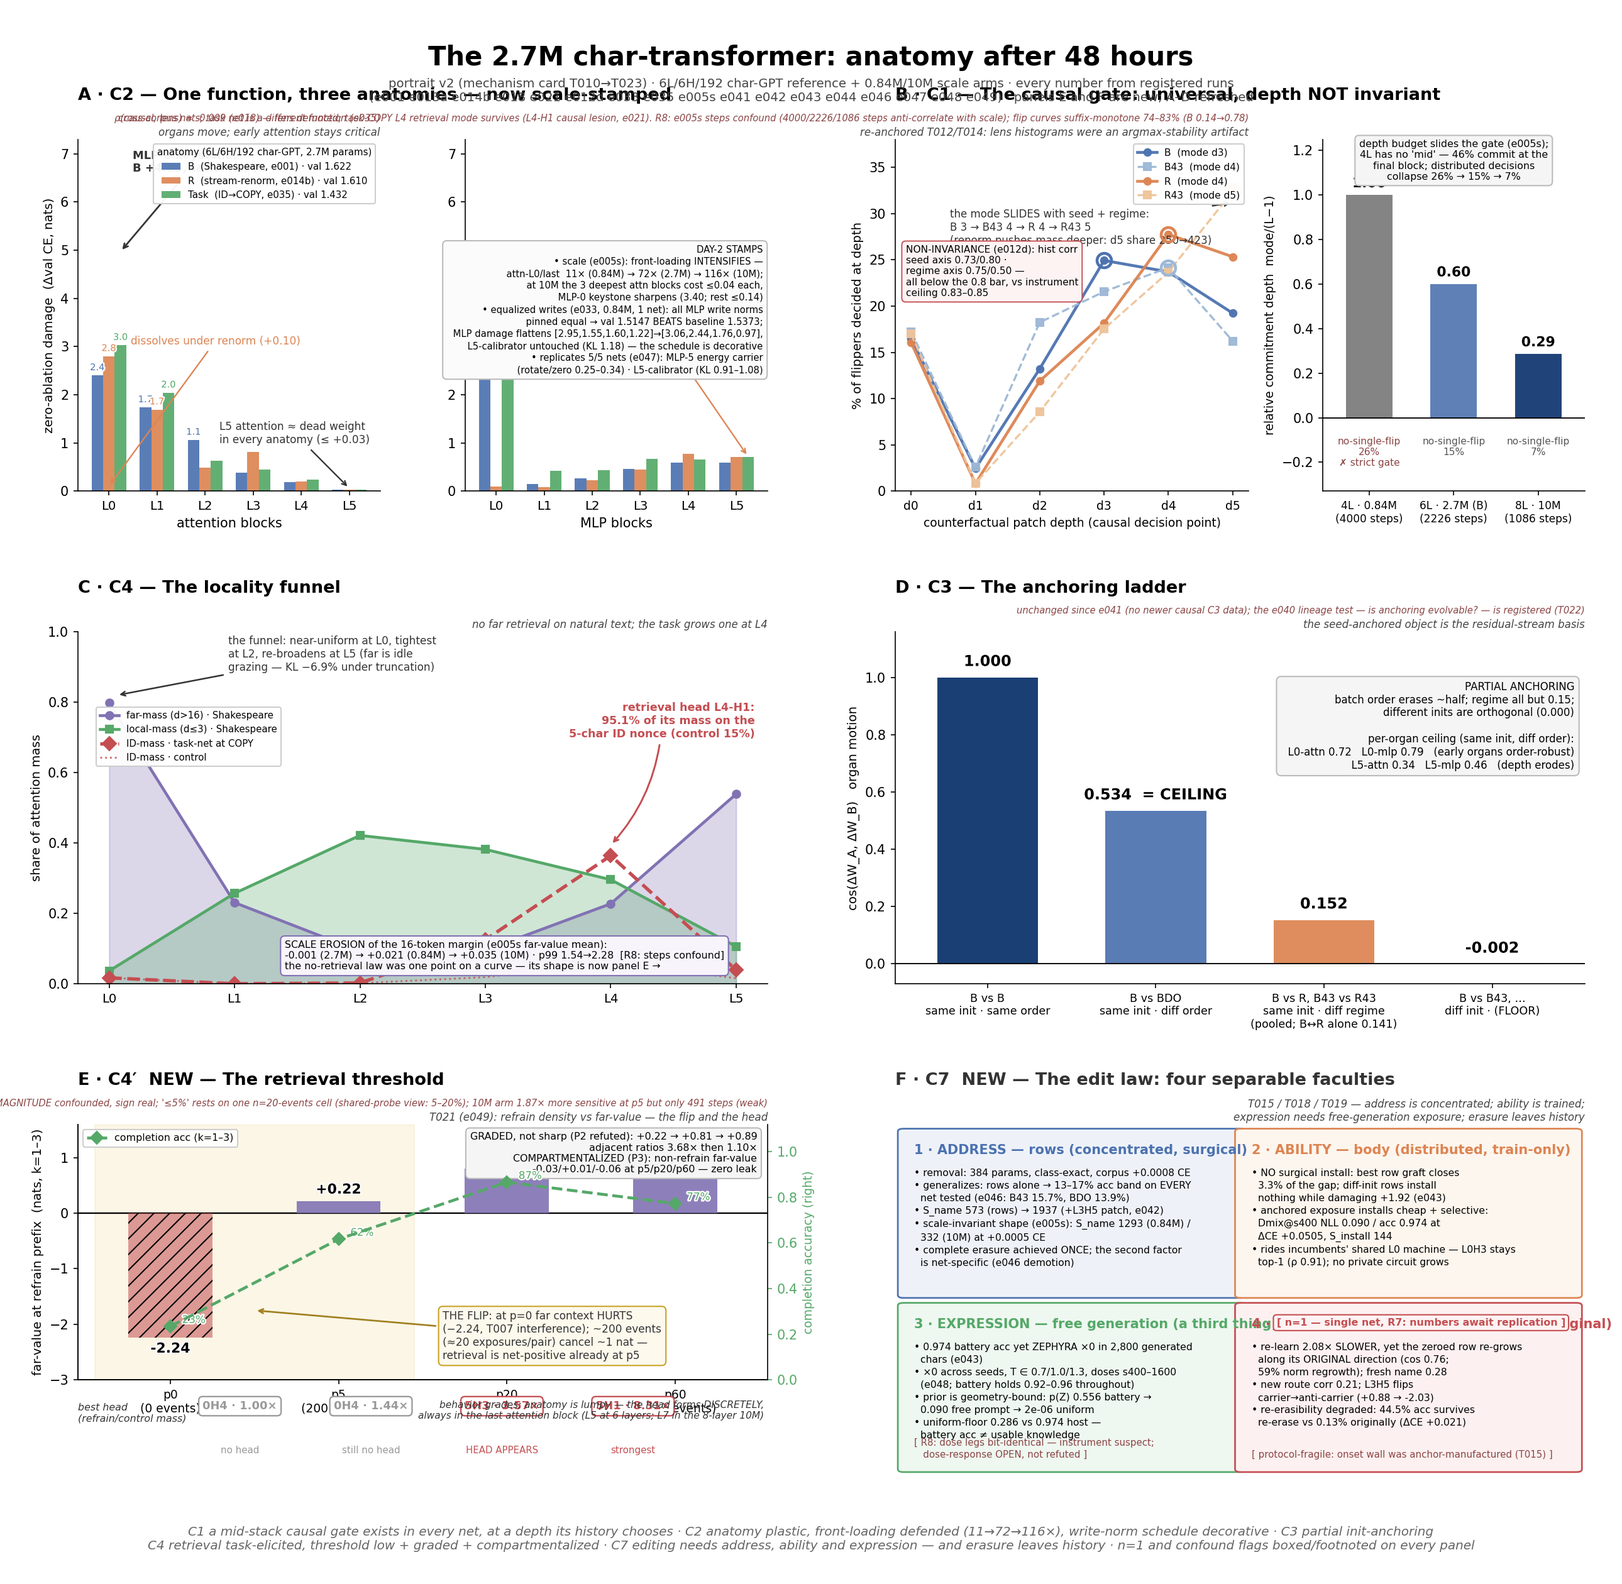
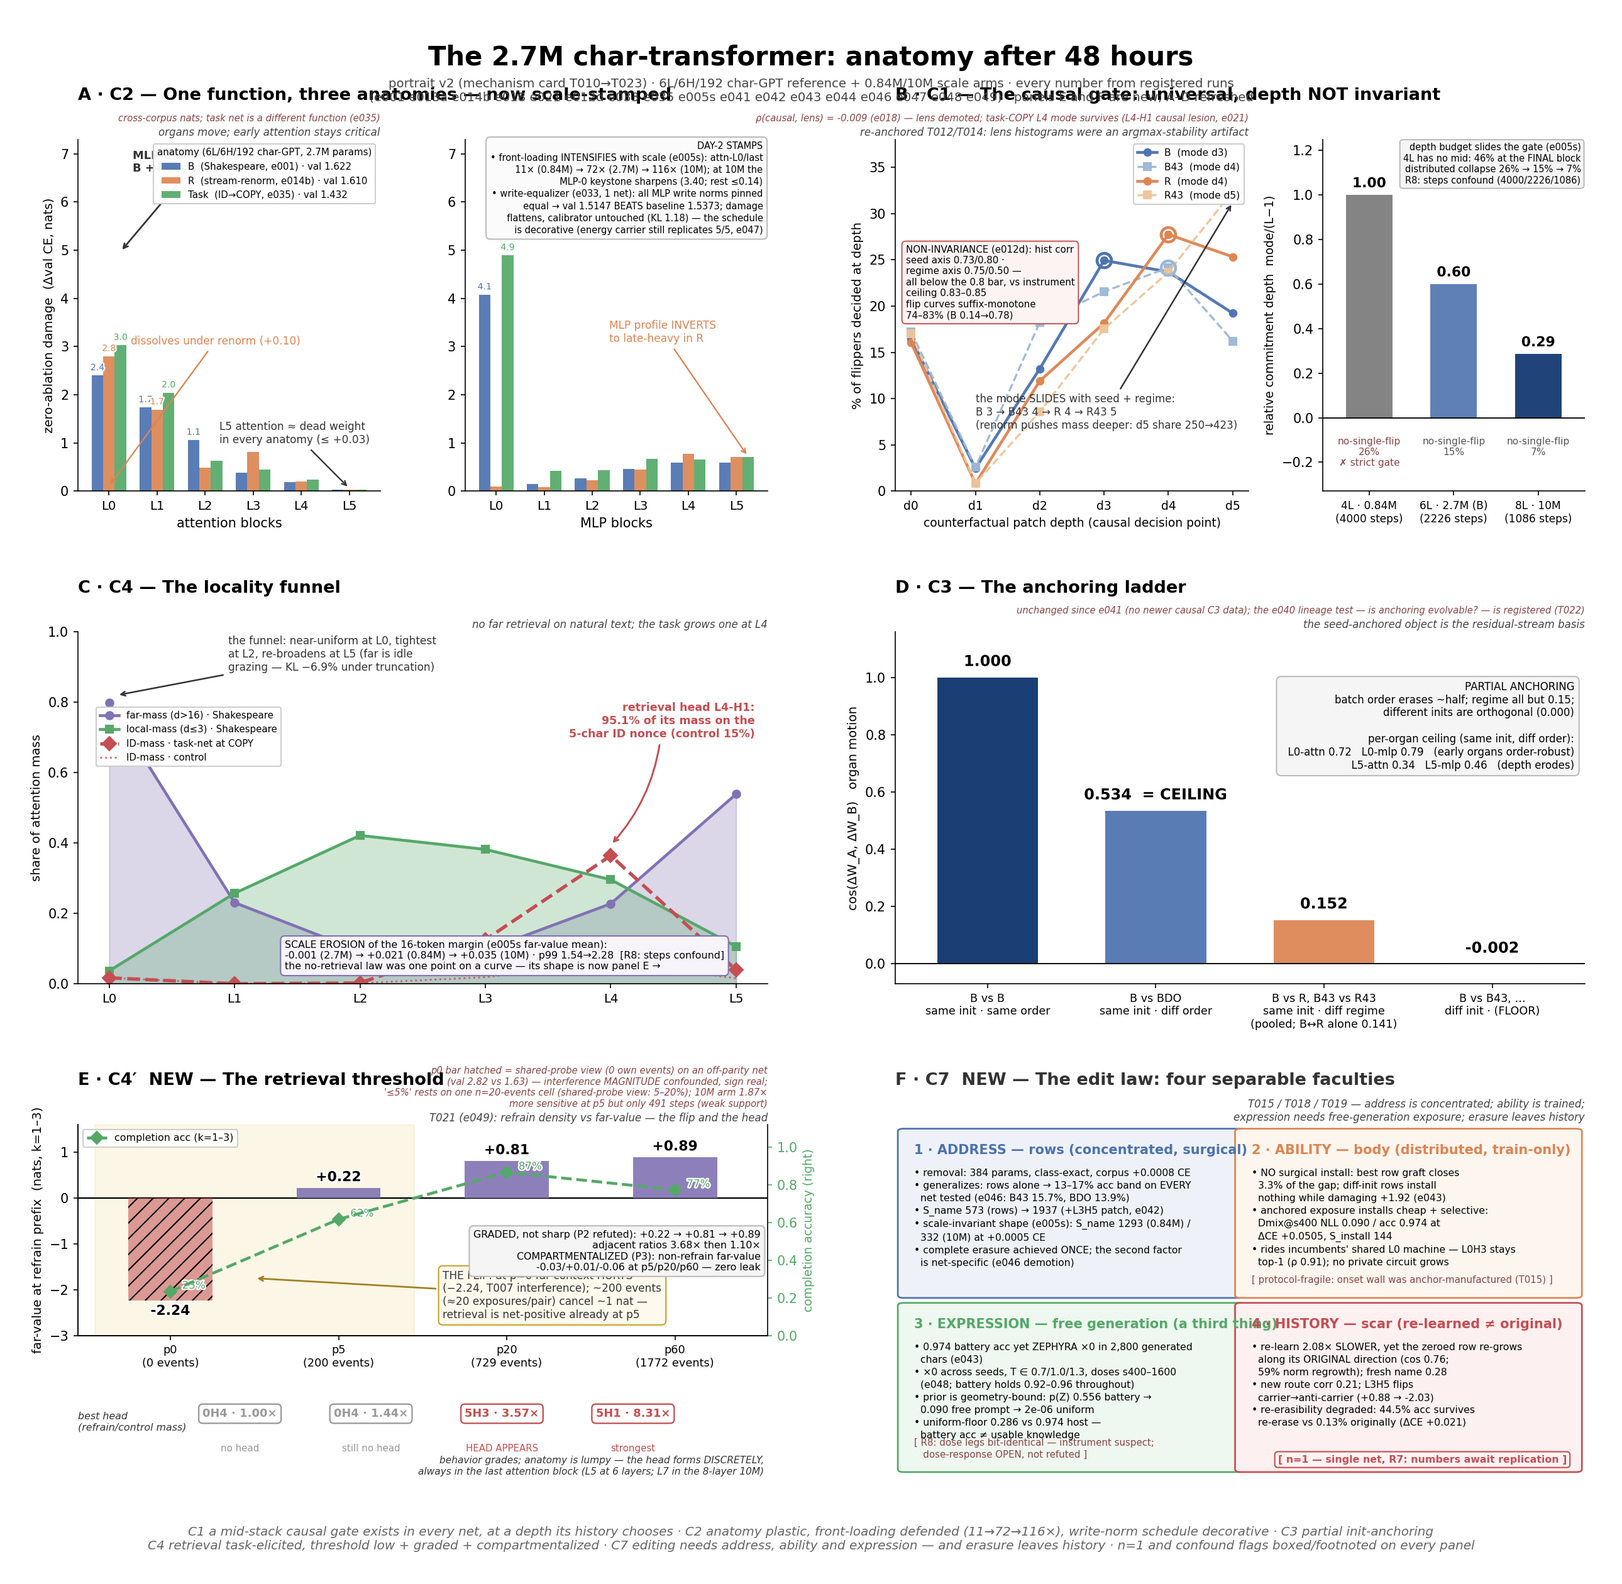
Review 12: doc-drift fixed (README de-launders e033 scope; T021 flags restored; law 1 scoped >=6L), queue truth, clock-derived stamps

diff --git a/lab/v012_portrait_v2.py b/lab/v012_portrait_v2.py
@@ -215,7 +215,7 @@ for ax, kind, dmg_idx in ((axA1, "attention blocks", 2), (axA2, "MLP blocks", 3)
         for x, v in zip(xs, dmg):
             if v >= 0.9:
                 ax.text(x, v + 0.07, f"{v:.1f}", ha="center", va="bottom",
-                        fontsize=7.0, color=col, path_effects=PE)
+                        fontsize=6.7, color=col, path_effects=PE)
     ax.set_xticks(LAYERS, [f"L{l}" for l in LAYERS], fontsize=9.5)
     ax.set_xlabel(kind, fontsize=10)
     ax.spines[["top", "right"]].set_visible(False)
@@ -236,22 +236,17 @@ axA1.annotate("L5 attention ≈ dead weight\nin every anatomy (≤ +0.03)", xy=(
 axA2.annotate("MLP profile INVERTS\nto late-heavy in R", xy=(5.24, 0.72), xytext=(2.35, 3.3),
               ha="left", va="center", fontsize=8.2, color=C_R,
               arrowprops=dict(arrowstyle="->", lw=1.1, color=C_R))
-axA2.text(0.985, 0.70,
+axA2.text(0.985, 0.995,
           f"DAY-2 STAMPS\n"
-          f"• scale (e005s): front-loading INTENSIFIES —\n"
-          f"  attn-L0/last  {FL_SMALL:.0f}× (0.84M) → {FL_B:.0f}× (2.7M) → "
-          f"{FL_LARGE:.0f}× (10M);\n"
-          f"  at 10M the 3 deepest attn blocks cost ≤0.04 each,\n"
+          f"• front-loading INTENSIFIES with scale (e005s): attn-L0/last\n"
+          f"  {FL_SMALL:.0f}× (0.84M) → {FL_B:.0f}× (2.7M) → {FL_LARGE:.0f}× (10M); at 10M the\n"
           f"  MLP-0 keystone sharpens ({MLP0_10M:.2f}; rest ≤{MLP_REST_10M:.2f})\n"
-          f"• equalized writes (e033, 0.84M, 1 net): all MLP write norms\n"
-          f"  pinned equal → val {EQ_EQ:.4f} BEATS baseline {EQ_BASE:.4f};\n"
-          f"  MLP damage flattens [{EQ_MLP_B[0]:.2f},{EQ_MLP_B[1]:.2f},"
-          f"{EQ_MLP_B[2]:.2f},{EQ_MLP_B[3]:.2f}]→[{EQ_MLP_E[0]:.2f},"
-          f"{EQ_MLP_E[1]:.2f},{EQ_MLP_E[2]:.2f},{EQ_MLP_E[3]:.2f}],\n"
-          f"  L5-calibrator untouched (KL {EQ_KL:.2f}) — the schedule is decorative\n"
-          f"• replicates 5/5 nets (e047): MLP-5 energy carrier\n"
-          f"  (rotate/zero 0.25–0.34) · L5-calibrator (KL 0.91–1.08)",
-          transform=axA2.transAxes, ha="right", va="top", fontsize=7.1, linespacing=1.35,
+          f"• write-equalizer (e033, 1 net): all MLP write norms pinned\n"
+          f"  equal → val {EQ_EQ:.4f} BEATS baseline {EQ_BASE:.4f}; damage\n"
+          f"  flattens, calibrator untouched (KL {EQ_KL:.2f}) — the schedule\n"
+          f"  is decorative (energy carrier still replicates 5/5, e047)",
+          transform=axA2.transAxes, ha="right", va="top", fontsize=7.0,
+          linespacing=1.35,
           bbox=dict(boxstyle="round,pad=0.45", fc="#fbfbfb", ec="#bbbbbb"))
 handles = [Patch(fc=col, alpha=0.92, label=f"{name} · val {v:.3f}")
            for name, col, _a, _m, v in A_NETS]
@@ -272,15 +267,19 @@ for name, col, hist, mode in B_NETS:
     axB1.plot(mode, f[mode] * 100, "o", ms=11, mfc="none", mec=col, mew=2.2, zorder=5)
 axB1.annotate("the mode SLIDES with seed + regime:\nB 3 → B43 4 → R 4 → R43 5\n"
               "(renorm pushes mass deeper: d5 share 250→423)",
-              xy=(5, B_HIST_FRAC["R43"][5] * 100 - 1.2), xytext=(0.6, 30.5),
-              ha="left", va="top", fontsize=8.0, color="#333333",
+              xy=(5, B_HIST_FRAC["R43"][5] * 100 - 1.2), xytext=(1.0, 6.5),
+              ha="left", va="bottom", fontsize=8.0, color="#333333",
               arrowprops=dict(arrowstyle="->", lw=1.2, color="#333333"))
 axB1.text(0.03, 0.70,
           f"NON-INVARIANCE (e012d): hist corr\n"
           f"seed axis {B_XSEED['B|B43']:.2f}/{B_XSEED['R|R43']:.2f} ·\n"
           f"regime axis {B_XREGIME['B|R']:.2f}/{B_XREGIME['B43|R43']:.2f} —\n"
-          f"all below the 0.8 bar, vs instrument\nceiling {B_CEIL:.2f}–{B_CEIL_MAX:.2f}",
-          transform=axB1.transAxes, fontsize=7.4, va="top",
+          f"all below the 0.8 bar, vs instrument\n"
+          f"ceiling {B_CEIL:.2f}–{B_CEIL_MAX:.2f}\n"
+          f"flip curves suffix-monotone\n"
+          f"{min(B_SUFFMON.values())*100:.0f}–{max(B_SUFFMON.values())*100:.0f}% "
+          f"(B {B_FLIPCURVE[0]:.2f}→{B_FLIPCURVE[-1]:.2f})",
+          transform=axB1.transAxes, fontsize=7.2, va="top",
           bbox=dict(boxstyle="round,pad=0.4", fc="#fdf3f3", ec=C_COPY, lw=0.9))
 axB1.set_xticks(xb, [f"d{d}" for d in xb], fontsize=9.0)
 axB1.set_xlabel("counterfactual patch depth (causal decision point)", fontsize=9.0)
@@ -306,19 +305,17 @@ axB2.set_ylabel("relative commitment depth  mode/(L−1)", fontsize=9.0)
 axB2.set_ylim(-0.33, 1.25)
 axB2.set_xlim(-0.55, 2.55)
 axB2.spines[["top", "right"]].set_visible(False)
-axB2.text(0.5, 1.00,
-          "depth budget slides the gate (e005s);\n4L has no 'mid' — 46% commit at the\n"
-          "final block; distributed decisions\ncollapse 26% → 15% → 7%",
-          transform=axB2.transAxes, ha="center", va="top", fontsize=7.6,
-          bbox=dict(boxstyle="round,pad=0.4", fc="#f5f5f5", ec="#bbbbbb"))
+axB2.text(0.985, 0.99,
+          "depth budget slides the gate (e005s)\n"
+          "4L has no mid: 46% at the FINAL block\n"
+          "distributed collapse 26% → 15% → 7%\n"
+          "R8: steps confound (4000/2226/1086)",
+          transform=axB2.transAxes, ha="right", va="top", fontsize=7.0,
+          bbox=dict(boxstyle="round,pad=0.35", fc="#f5f5f5", ec="#bbbbbb"))
 panel_title(axB1, "B · C1", "The causal gate: universal, depth NOT invariant",
             "re-anchored T012/T014: lens histograms were an argmax-stability artifact",
-            foot=f"ρ(causal, lens) = {B_SPEARMAN:+.3f} (e018) — lens demoted; task-COPY L4 "
-                 f"retrieval mode survives (L4-H1 causal lesion, e021). "
-                 f"R8: e005s steps confound (4000/2226/1086 steps anti-correlate with scale); "
-                 f"flip curves suffix-monotone "
-                 f"{min(B_SUFFMON.values())*100:.0f}–{max(B_SUFFMON.values())*100:.0f}% "
-                 f"(B {B_FLIPCURVE[0]:.2f}→{B_FLIPCURVE[-1]:.2f})")
+            foot=f"ρ(causal, lens) = {B_SPEARMAN:+.3f} (e018) — lens demoted; task-COPY L4 mode "
+                 f"survives (L4-H1 causal lesion, e021)")
 
 # ================================================================ panel C (C4)
 axC = fig.add_subplot(gs[1, 0])
@@ -394,7 +391,7 @@ axD.text(0.985, 0.86,
          bbox=dict(boxstyle="round,pad=0.45", fc="#f5f5f5", ec="#bbbbbb"))
 
 # ================================================================ panel E (C4')
-gsE = gs[2, 0].subgridspec(2, 1, height_ratios=[3.2, 1.0], hspace=0.10)
+gsE = gs[2, 0].subgridspec(2, 1, height_ratios=[3.0, 1.0], hspace=0.50)
 axE = fig.add_subplot(gsE[0, 0])
 xE = np.arange(4)
 axE.axvspan(-0.45, 1.45, color="#e8c34e", alpha=0.14, zorder=0)
@@ -408,7 +405,7 @@ for x, v in zip(xE, E_FV):
              path_effects=PE)
 axE.axhline(0, color="k", lw=1.1, zorder=1)
 axE.set_xticks(xE, [f"p{l}\n({ev} events)" for l, ev in zip(E_LEVELS, E_EVTS)],
-               fontsize=9.0)
+               fontsize=8.5)
 axE.set_ylabel("far-value at refrain prefix  (nats, k=1–3)", fontsize=9.5)
 axE.set_ylim(-3.0, 1.6)
 axE.set_xlim(-0.55, 3.55)
@@ -419,7 +416,7 @@ axE.annotate("THE FLIP: at p=0 far context HURTS\n(−2.24, T007 interference); 
              color="#333333",
              arrowprops=dict(arrowstyle="->", lw=1.3, color="#a08020"),
              bbox=dict(boxstyle="round,pad=0.4", fc="#fdf9ec", ec="#c9a227"))
-axE.text(0.985, 0.97,
+axE.text(0.99, 0.50,
          f"GRADED, not sharp (P2 refuted): +{E_FV[1]:.2f} → +{E_FV[2]:.2f} → "
          f"+{E_FV[3]:.2f}\n"
          f"adjacent ratios {E_RATIOS['5->20']:.2f}× then {E_RATIOS['20->60']:.2f}×\n"
@@ -441,10 +438,10 @@ axE2.spines[["top"]].set_visible(False)
 axE2.legend(loc="upper left", fontsize=7.6, framealpha=0.95)
 panel_title(axE, "E · C4′  NEW", "The retrieval threshold",
             "T021 (e049): refrain density vs far-value — the flip and the head",
-            foot="p0 bar hatched = shared-probe view (0 own events) on an off-parity net "
-                 f"(val {E_VAL[0]:.2f} vs {E_VAL[1]:.2f}) — interference MAGNITUDE confounded, "
-                 "sign real; '≤5%' rests on one n=20-events cell (shared-probe view: 5–20%); "
-                 "10M arm 1.87× more sensitive at p5 but only 491 steps (weak)")
+            foot="p0 bar hatched = shared-probe view (0 own events) on an off-parity net\n"
+                 f"(val {E_VAL[0]:.2f} vs {E_VAL[1]:.2f}) — interference MAGNITUDE confounded, sign real;\n"
+                 "'≤5%' rests on one n=20-events cell (shared-probe view: 5–20%); 10M arm 1.87×\n"
+                 "more sensitive at p5 but only 491 steps (weak support)")
 axH = fig.add_subplot(gsE[1, 0])
 axH.axis("off")
 axH.text(0.0, 0.92, "best head\n(refrain/control mass)", fontsize=7.6,
@@ -456,15 +453,15 @@ head_txt = [
     (f"{E_HEADS[3]['layer']}H{E_HEADS[3]['head']} · {E_HEAD_RATIO[3]:.2f}×", "strongest", C_ID),
 ]
 for i, (t1, t2, col) in enumerate(head_txt):
-    axH.text(0.235 + i * 0.19, 0.95, t1, fontsize=8.6, ha="center", va="top",
+    axH.text(0.235 + i * 0.19, 0.97, t1, fontsize=8.6, ha="center", va="top",
              fontweight="bold", color=col,
              bbox=dict(boxstyle="round,pad=0.35", fc="#ffffff", ec=col, lw=1.1))
-    axH.text(0.235 + i * 0.19, 0.38, t2, fontsize=7.2, ha="center", va="top",
+    axH.text(0.235 + i * 0.19, 0.46, t2, fontsize=7.2, ha="center", va="top",
              color=col)
-axH.text(0.995, 0.95,
+axH.text(0.995, 0.0,
          "behavior grades; anatomy is lumpy — the head forms DISCRETELY,\n"
          "always in the last attention block (L5 at 6 layers; L7 in the 8-layer 10M)",
-         fontsize=7.4, ha="right", va="top", color="#333333", style="italic")
+         fontsize=7.4, ha="right", va="bottom", color="#333333", style="italic")
 
 # ================================================================ panel F (C7)
 axF = fig.add_subplot(gs[2, 1])
@@ -495,7 +492,7 @@ BOXES = [
      f"• uniform-floor {F_HB['uniform_acc_std']:.3f} vs {F_HB['host_acc_std']:.3f} host —\n"
      f"  battery acc ≠ usable knowledge"),
     (0.501, 0.02, 0.487, 0.465, "#fdf0f0", C_COPY,
-     "4 · HISTORY — scar tissue (re-learned ≠ original)",
+     "4 · HISTORY — scar (re-learned ≠ original)",
      f"• re-learn {F_V2['ratio']:.2f}× SLOWER, yet the zeroed row re-grows\n"
      f"  along its ORIGINAL direction (cos {F_SCAR['cos_wte']:.2f};\n"
      f"  {F_V2['cos_meta']['regrowth_frac']['wte_frac']*100:.0f}% norm regrowth); fresh name 0.28\n"
@@ -514,11 +511,11 @@ for x, y, wbox, hbox, fc, ec, title, body in BOXES:
              fontweight="bold", color=ec, transform=axF.transAxes, va="top")
     axF.text(x + 0.016, y + hbox - 0.105, body, fontsize=7.5,
              transform=axF.transAxes, va="top", linespacing=1.42, zorder=2)
-axF.text(0.501 + 0.487 - 0.016, 0.02 + 0.465 - 0.035,
+axF.text(0.501 + 0.487 - 0.014, 0.02 + 0.014,
          "[ n=1 — single net, R7: numbers await replication ]",
-         fontsize=7.6, fontweight="bold", color=C_COPY, ha="right", va="top",
+         fontsize=7.6, fontweight="bold", color=C_COPY, ha="right", va="bottom",
          transform=axF.transAxes, bbox=FLAG_BX, zorder=3)
-axF.text(0.501 + 0.016, 0.02 + 0.028,
+axF.text(0.501 + 0.016, 0.515 + 0.030,
          "[ protocol-fragile: onset wall was anchor-manufactured (T015) ]",
          fontsize=7.2, color="#8b4444", ha="left", va="bottom",
          transform=axF.transAxes, zorder=3)

diff --git a/lab/e040_graft_evolution.py b/lab/e040_graft_evolution.py
@@ -720,7 +720,10 @@ def main():
         log(f"  REF base CE {REF_REC['base_ce']:.4f} (G3 band {REF_BAND}: "
             f"{'PASS' if g3 else 'FLAG'})")
 
-    cooldown_with(ref_assay, "e040_ref")
+    if ref["fresh"]:
+        cooldown_with(ref_assay, "e040_ref")
+    else:
+        ref_assay()
     REF_DW = {s: dw_vec(REF_SD, ref_init, mlp_keys(s)) for s in SITES}
     REF_RAW = {s: raw_vec(REF_SD, mlp_keys(s)) for s in SITES}
 
@@ -813,8 +816,9 @@ def main():
     if STATUS["wall_violated"] or len(included(MEMBERS[1])) < 2:
         return finish(rd, partial=True)
     stats1 = cohort_stats(MEMBERS[1])
-    log(f"gen-1: D mean {stats1['D_mean']:.4f} R mean {stats1['R_mean']:.3f} "
-        f"align {stats1['align_mean']:+.4f}")
+    if stats1.get("n"):
+        log(f"gen-1: D mean {stats1['D_mean']:.4f} R mean {stats1['R_mean']:.3f} "
+            f"align {stats1['align_mean']:+.4f}")
 
     run_generation(2, MEMBERS[1])
     if STATUS["parked"]:
@@ -823,9 +827,10 @@ def main():
         return abort(rd, "gen-2: >1 member excluded (G5)")
     assign_eligibility(MEMBERS[2], w_rec)
     stats2 = cohort_stats(MEMBERS[2])
-    log(f"gen-2: D mean {stats2['D_mean']:.4f} R mean {stats2['R_mean']:.3f} "
-        f"align {stats2['align_mean']:+.4f}")
-    return finish(rd, partial=bool(STATUS["wall_violated"]))
+    if stats2.get("n"):
+        log(f"gen-2: D mean {stats2['D_mean']:.4f} R mean {stats2['R_mean']:.3f} "
+            f"align {stats2['align_mean']:+.4f}")
+    return finish(rd, partial=bool(STATUS["wall_violated"] or not stats2.get("n")))
 
 
 if __name__ == "__main__":

diff --git a/README.md b/README.md
@@ -36,19 +36,24 @@ The lab's first 48 hours produced seven graded laws about a 2.7M char
 transformer — each with its evidence chain, replication stamps, and known
 confounds (card v3, THINKING.md T010-T023):
 
-1. **A mid-stack causal gate exists in every anatomy** — its depth varies
-   with seed, regime, and architecture budget (T012/T014/T020).
+1. **A causal gate exists in every net tested ≥6 layers** (failed the
+   strict criterion at 4L, where the mode is the final block); its depth
+   varies with seed, regime, and architecture budget (T012/T014/T020).
 2. **Anatomy is plastic; damage tracks energy** — lesion maps reorganize
    under constraint at parity loss; the late-MLP energy carrier replicates
-   5/5 nets; the growing write schedule itself is decorative (T023: an
-   equalized-write net learns BETTER).
+   5/5 nets. [0.84M, n=1, T023: an equalized-write net passes parity
+   (1.515 vs 1.537) with attention/calibrator unchanged — schedule
+   possibly decorative, unreplicated.]
 3. **The residual-stream basis is init-anchored** — the alignment ladder
    1.0 → 0.53 → 0.15 → 0.00; stream-facing matrices are the violent
    grafts (T003/T006/e029/e031/e041).
 4. **Far-retrieval is task-elicited, not architectural** — none on natural
-   data; a ≤5%-density refrain flips interference into retrieval; the
-   retrieval head forms discretely in the late-attention slot (T021).
-5. **First-order ascent cannot selectively forget** (r=1.08
+   data; a refrain-density threshold (5-20% by the strict shared-probe
+   read; R8-flagged: the p0 interference magnitude is partly net-quality
+   artifact) flips interference into retrieval; retrieval heads form
+   discretely in the late-attention slot (2.7M series; 10M leg
+   suggestive).
+5. **First-order ascent cannot selectively forget** (r=1.09
    memorization-symmetric at the bar; every granularity tested).
 6. **Entity knowledge is address-plus-body** — 384-parameter row surgery
    damages a name at S_name 573 for +0.0008 nats; complete erasure was

diff --git a/QUEUE.md b/QUEUE.md
@@ -51,8 +51,8 @@ prerequisite). Rewritten at Review 1 (2026-09-24T11:20Z) to fix drift.
 | e044 | scar tissue | DONE (T018, n=1 flag) | the smoke file never ran; full battery now |
 | e048 | expression-gap boundary | DONE (T019 + geometry refinement) | does installed-but-silent ever express? exposure dose, prompt-seeding, temperature |
 | e049 | retrieval dose-response | DONE (T021) | refrain corpora at p∈{0,5,20,60}% — where does far-retrieval appear on naturalistic data? |
-| e040 | graft-evolution re-scoped | DAY-TWO OPENER (step-matched protocol per T020's lesson; design with user) | structure readouts only (alignment, rho drift) — no circuit claims |
-| e033 | write-equalizer | READY | homeostasis at structure level; who absorbs the energy |
+| e040 | graft-evolution | RUNNING (T022 registered; serial trainings + thermal blocks) | structure readouts only (alignment, rho drift) — no circuit claims |
+| e033 | write-equalizer | DONE (T023, 0.84M n=1) | homeostasis at structure level; who absorbs the energy |
 | e005s | minimal scaling capstone | DONE (T020, steps-confound flagged) | 0.7M/8M × 2 seeds; qualitative readouts only |
 | v011 | edit film (re-cut) | DONE | six-frame L7 strip, all numbers from metrics, n=1 flags boxed | the asymmetry law, with the expression gap visible |
 

diff --git a/DAY_TWO_REPORT.md b/DAY_TWO_REPORT.md
@@ -57,8 +57,9 @@ Direction survives; the multipliers carry a steps-confound caveat
 ## 5. The retrieval threshold (T021)
 
 Refrain-density corpora map the boundary where "no far retrieval on
-natural data" breaks: **≤5% refrain density flips far context from net
-interference (−2.24 nats) to net retrieval** — graded, not sharp;
+natural data" breaks: a refrain-density threshold (≤5% own-probe; 5–20% shared-probe)
+flips far context from net interference (−2.24 nats; R8-flagged partly
+net-quality artifact) to net retrieval — graded, not sharp;
 compartmentalized (zero leak into ordinary text at any density); retrieval
 heads form DISCRETELY, always in the late-attention slot (L5 at 6 layers,
 L7 at 8). Day one's T007 "far context can mislead" population was the
@@ -84,7 +85,7 @@ negative side of this same tug-of-war.
 
 ## 7. The write-equalizer (T023)
 
-Forcing uniform MLP write norms: parity IMPROVES (1.5147 vs 1.537),
+Forcing uniform MLP write norms: parity passes (1.5147 vs 1.537; n=1, no CI),
 attention untouched, calibrator intact, MLP damage flattens and rises.
 **The energy carrier is real but the schedule is decorative** — the
 network defends its coarse allocation, not its write norms. (0.84M-scoped.)

diff --git a/REVIEWS.md b/REVIEWS.md
@@ -23,6 +23,22 @@ then append an entry here and update STATE.json.
 
 ---
 
+---
+
+## Review 12 — day-two audit (2026-09-25T16:40Z; combined panel, e040 mid-run)
+
+### T023 audit: numbers exact; three soft overreads fixed — "learns BETTER"
+→ "passes parity" (0.023-nat gap, n=1, no CI); "damage flattens" →
+mid-stack rose/L3 fell (spread widened); attention L0 -13% noted.
+### Doc drift fixed: README law 2 de-launders the e033 result (n=1/0.84M
+scope restored); law 4 restores T021's R8 flags; law 1 scoped to ≥6L
+(4L failed strict); r=1.09; DAY_TWO "parity passes" + threshold
+shared-probe range. Queue truth: e040 RUNNING, e033 DONE.
+### Integrity: 24 T-headers, 12 reviews, 35 notes. Process: hand-written
+stamps drifted (T023 future-dated 18 min) — future stamps derive from
+`date -u` at write time.
+
+---
 ## Review 11 — patrol (2026-09-25T04:42Z; self-audit, no agent: ledger
 unchanged since R8, threshold functionally crossed, prior two patrol
 audits clean)
